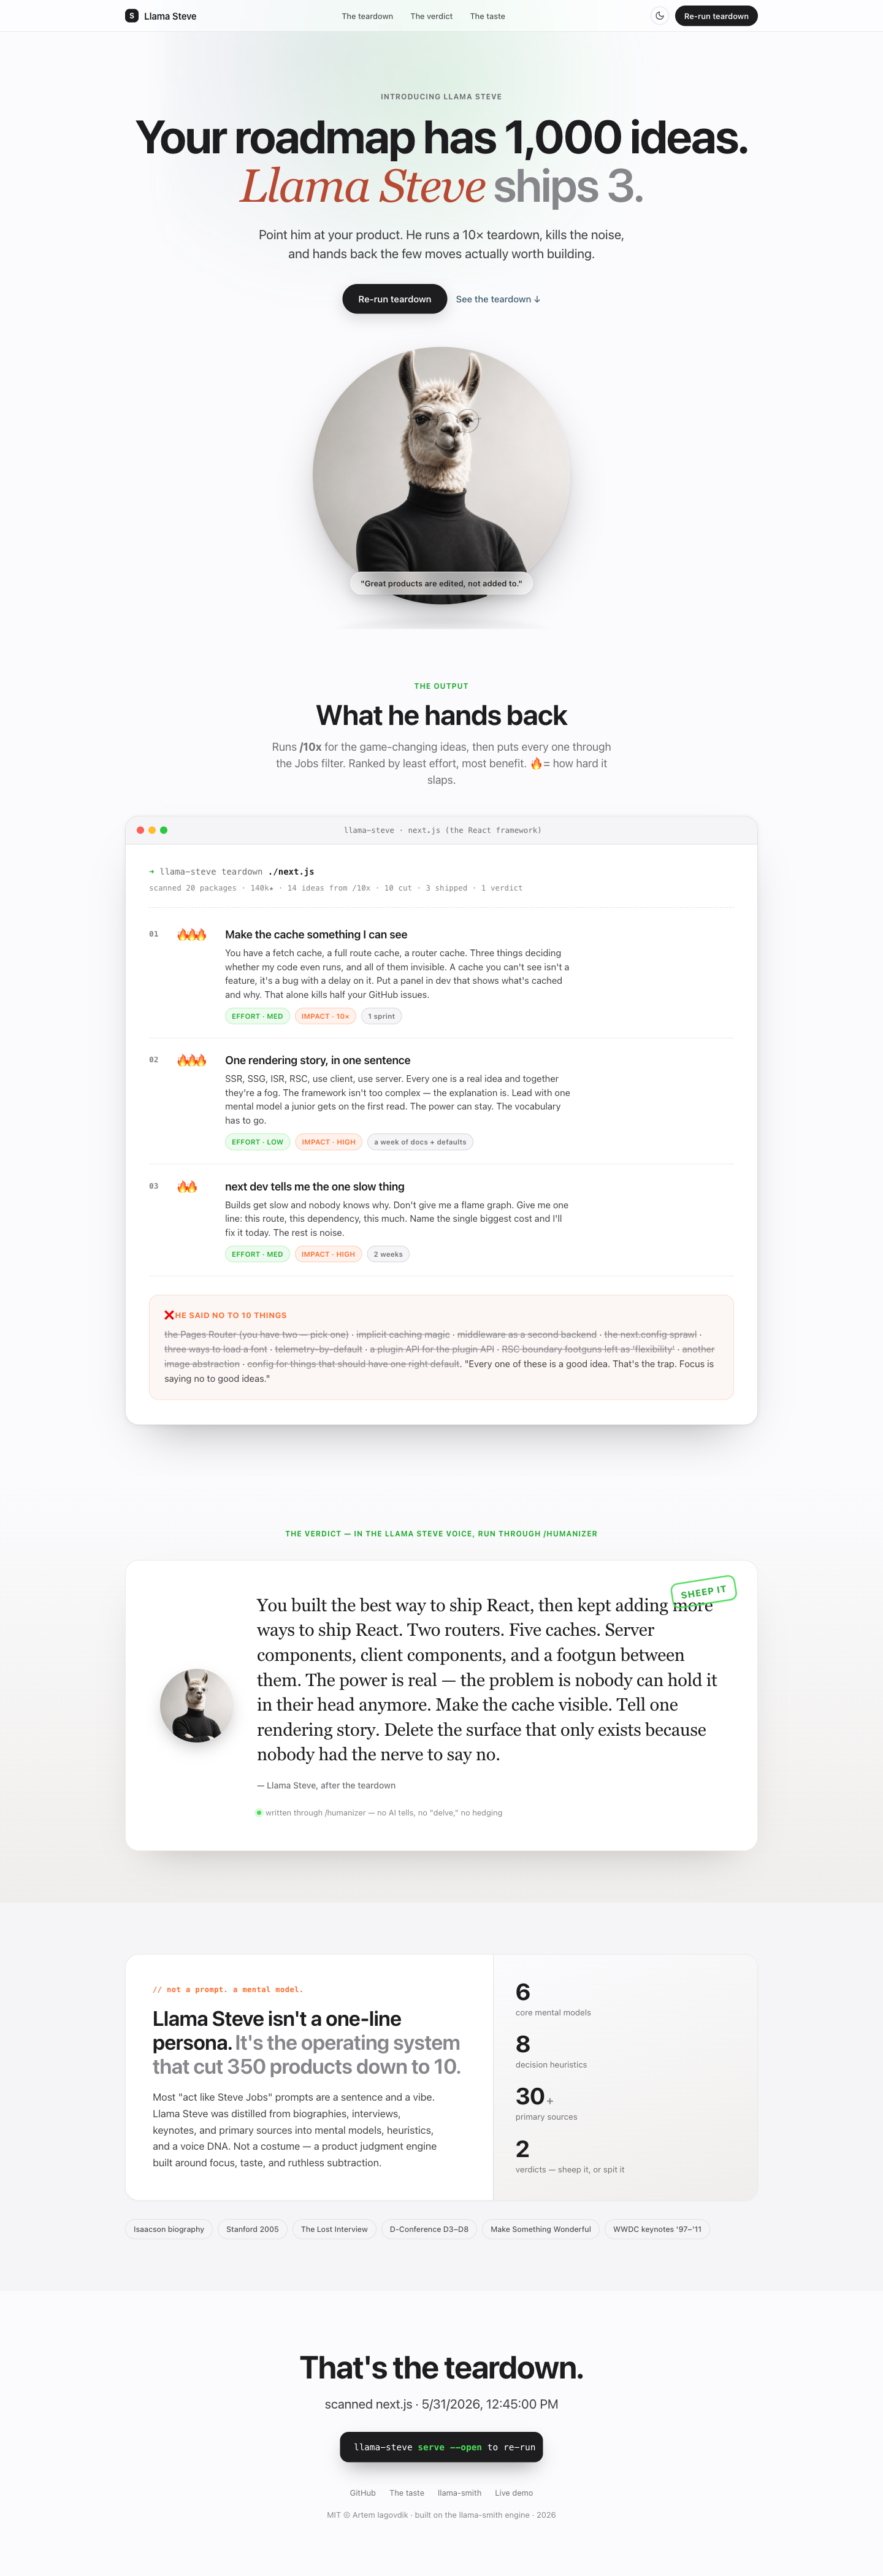
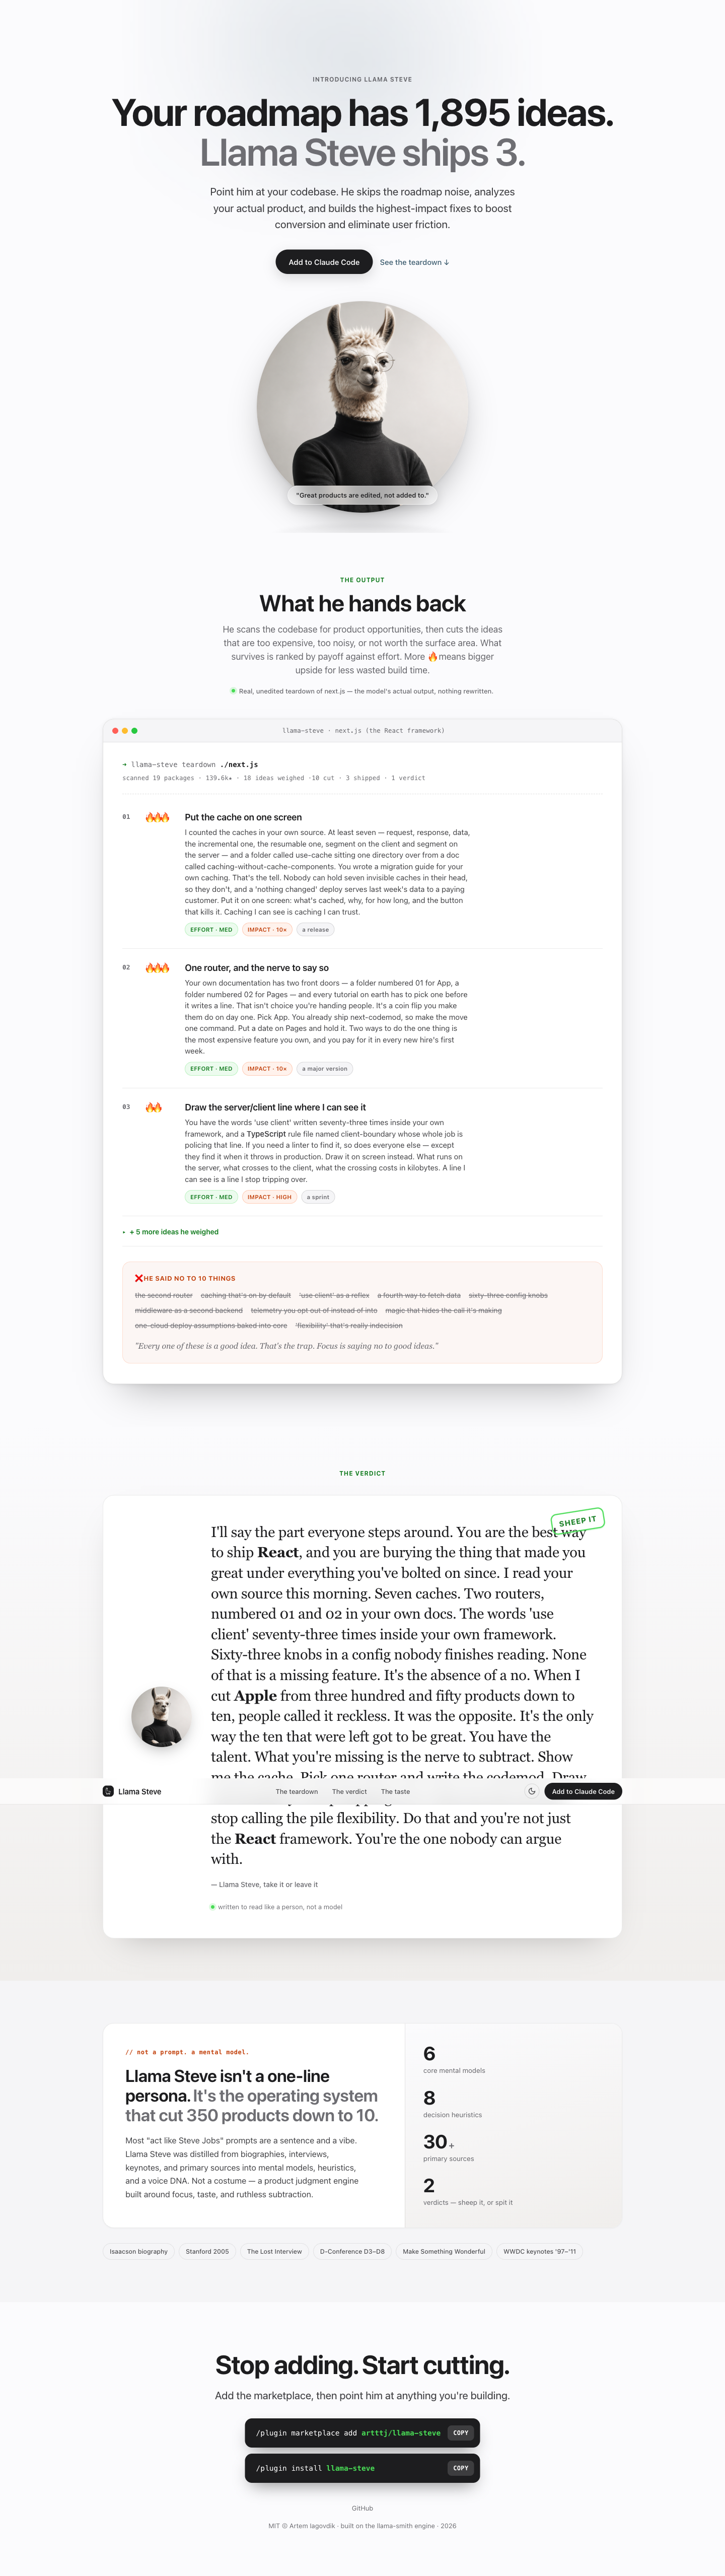
feat: real next.js teardown, clipboard copy, brand mark, OG refresh
Regenerate the public teardown from an actual scan of vercel/next.js so the demo shows real model output instead of curated copy, grounded in observable facts: 19 packages, seven cache layers, two build systems, 'use client' 73 times, 63 config options.

Add a llama brand mark in the nav, a working copy-to-clipboard with a confirmation chip, a refreshed OG card, equal-width install pills, and a calmer hero. Default the teardown to the strongest model with full thinking. Add AGENTS.md.

diff --git a/assets/llama-steve.css b/assets/llama-steve.css
@@ -34,6 +34,7 @@
   .brand{display:flex;align-items:center;gap:9px;font-weight:600;font-size:15px;letter-spacing:-.01em}
   .brand .dot{width:22px;height:22px;border-radius:7px;background:var(--ink);
     display:grid;place-items:center;color:#fff;font-size:12px;font-weight:700}
+  .brand .dot svg{width:15px;height:15px;display:block;fill:currentColor}
   .nav-links{display:flex;gap:28px;font-size:13px;color:var(--ink-2);font-weight:450}
   .nav-links a{transition:color .15s} .nav-links a:hover{color:var(--ink)}
   .nav-cta{font-size:13px;font-weight:550;background:var(--ink);color:#fff;
@@ -43,14 +44,14 @@
 
   /* ---------- hero ---------- */
   header{
-    position:relative; padding:148px 0 40px; text-align:center; overflow:hidden;
+    position:relative; padding:116px 0 28px; text-align:center; overflow:hidden;
   }
   header::before{
     content:""; position:absolute; top:-10%; left:50%; transform:translateX(-50%);
     width:900px; height:620px; z-index:0;
-    background:radial-gradient(circle at 50% 40%, rgba(72,220,85,.10), transparent 60%),
-               radial-gradient(circle at 30% 30%, rgba(58,90,109,.10), transparent 55%);
-    filter:blur(20px);
+    background:radial-gradient(circle at 50% 38%, rgba(60,92,112,.10), transparent 60%),
+               radial-gradient(circle at 32% 26%, rgba(60,92,112,.05), transparent 55%);
+    filter:blur(22px);
   }
   .eyebrow{position:relative;z-index:1;font-size:12px;font-weight:680;letter-spacing:.08em;text-transform:uppercase;
     color:var(--ink-3); margin-bottom:16px}
@@ -59,6 +60,7 @@
   h1 .sub{display:block;color:var(--ink-4);font-weight:600}
   .lede{position:relative;z-index:1;max-width:620px;margin:24px auto 0;
     font-size:clamp(17px,2.1vw,21px);color:var(--ink-2);line-height:1.55;font-weight:440}
+  .lede em{font-style:italic;font-weight:560;color:var(--ink)}
   .hero-cta{position:relative;z-index:1;display:flex;gap:14px;justify-content:center;
     align-items:center;margin-top:34px}
   .btn-primary{background:var(--ink);color:#fff;font-size:15px;font-weight:550;
@@ -180,8 +182,8 @@
   .vquote{font-family:var(--serif);font-size:clamp(21px,2.6vw,29px);line-height:1.4;
     letter-spacing:-.01em;color:var(--ink)}
   .vquote .accent{color:var(--green-deep)}
-  .vquote .kw{font-weight:450}
-  .feat-desc .kw{font-weight:500}
+  .vquote .kw{font-weight:600}
+  .feat-desc .kw{font-weight:600}
   .more-feats{margin-top:2px}
   .more-feats>summary{list-style:none;cursor:pointer;font-family:var(--display);font-size:14px;font-weight:600;letter-spacing:-.01em;color:var(--green-deep);padding:18px 0;border-bottom:1px solid var(--line);display:flex;align-items:center;gap:8px}
   .more-feats>summary::-webkit-details-marker{display:none}
@@ -208,6 +210,20 @@
   .install .copy{background:rgba(255,255,255,.14);border-radius:8px;padding:6px 11px;font-size:12px;
     font-weight:600;letter-spacing:.03em;cursor:pointer;transition:background .15s}
   .install .copy:hover{background:rgba(255,255,255,.26)}
+  .install-stack{display:flex;flex-direction:column;align-items:stretch;gap:12px;width:fit-content;max-width:100%;margin:30px auto 0}
+  .install-stack .install{width:auto;margin:0;justify-content:space-between}
+  .install .copy{user-select:none}
+  .install .copy:active{transform:scale(.93)}
+  .install .copy.ok{background:var(--green);color:#06340c}
+  .toast{position:fixed;left:50%;bottom:30px;transform:translate(-50%,14px);z-index:60;
+    display:flex;align-items:center;gap:9px;background:var(--ink);color:var(--bg);
+    font-family:var(--display);font-size:13px;font-weight:600;letter-spacing:.01em;
+    padding:11px 17px;border-radius:999px;box-shadow:0 18px 44px -14px rgba(0,0,0,.55);
+    opacity:0;pointer-events:none;transition:opacity .2s var(--ease,ease),transform .2s var(--ease,ease)}
+  .toast::before{content:"";width:9px;height:9px;border-radius:50%;background:var(--green);
+    box-shadow:0 0 0 4px color-mix(in srgb,var(--green) 26%,transparent)}
+  .toast.show{opacity:1;transform:translate(-50%,0);pointer-events:auto}
+  @media (prefers-reduced-motion:reduce){.toast{transition:opacity .2s}.install .copy:active{transform:none}}
   footer{padding:40px 0 60px;text-align:center;color:var(--ink-4);font-size:13px}
   footer .fl{display:flex;gap:22px;justify-content:center;margin-bottom:16px;color:var(--ink-3)}
 /* verdict stamp variants */

diff --git a/AGENTS.md b/AGENTS.md
@@ -1,0 +1,60 @@
+# AGENTS.md — Llama Steve
+
+Guidance for coding agents (Claude Code, etc.) working in this repo.
+
+## What this is
+
+Llama Steve is a Claude Code plugin that runs a **10x product teardown** of a repo
+in the voice of a Steve-Jobs-modeled persona — it generates game-changing ideas,
+says no to most of them, keeps ~3, and stamps a binary verdict (**SHEEP IT** or
+**SPIT IT**). It renders the result as an Apple-keynote-style report and serves it
+on localhost. A curated landing page is published at `https://sonto.space/steve/`.
+
+## Architecture (read before changing anything)
+
+The CLI is a **deterministic renderer. It makes zero LLM calls.** The actual
+thinking is done by the Claude Code agent following `commands/llama-steve.md`.
+
+- `llama-steve.mjs` — CLI. Verbs: `serve` (render `/tmp/llama-steve-result.json`
+  into `reports/` and serve it) and `landing` (render `assets/demo.json` into
+  `site/` for the public demo). Flags: `--open`, `--no-serve`, `--port`, `--result`.
+- `lib/report.mjs` — `renderReport` / `buildReport`. Emits self-contained HTML and
+  copies `assets/`. Two modes: `report` (local) and `landing` (adds
+  `<base href="/steve/">`). CSS is cache-busted by content hash. `boldNames()`
+  lightly bolds known framework/company names; the brand mark is `assets/llama-mark.svg`
+  inlined with `fill: currentColor`.
+- `lib/scan.mjs` — `repoIdentity()`: name/description from manifest, git remote, commit count.
+- `lib/serve.mjs` — tiny static server, bound to `127.0.0.1`, path-traversal guarded.
+- `skills/` — bundled skills used during a teardown: `llama-steve` (persona +
+  output contract), `ten-x` (idea generation), `humanizer` (verdict rewrite).
+- `assets/demo.json` — data for the **public** landing. **Must be a real teardown.**
+  `assets/example.json` is the fallback sample shown when no result exists.
+
+## Running it
+
+```bash
+node llama-steve.mjs serve --open    # local report from /tmp/llama-steve-result.json
+node llama-steve.mjs landing         # build public site/ from assets/demo.json
+node --test test/*.mjs               # tests (Node 20+, no deps, no build step)
+```
+
+## The teardown (what the agent does)
+
+Follow `commands/llama-steve.md` and the `skills/llama-steve` output contract:
+`{ product, ideasConsidered, features[], more[], killed[], verdict }`. `heat` is
+1–3, `effort` ∈ LOW/MED/HIGH. Keep `features` to ~3 (max 5); the kill list is the point.
+
+**Read the real code before judging it. Do not invent findings.** Ground every
+feature and number in something you actually observed in the target repo. The demo
+is a real scan of `vercel/next.js`, not recited knowledge — keep it that way.
+
+## Deploying
+
+The public demo at `sonto.space/steve/` is a static drop that lives **outside** the
+sonto-space repo. See `.claude/skills/deploy`. Only real results ship to the demo.
+
+## Conventions
+
+- ES modules, Node 20+, no dependencies, no build step.
+- Many small focused files. Match the surrounding style.
+- Don't add LLM calls to the CLI — the agent is the model.

diff --git a/commands/llama-steve.md b/commands/llama-steve.md
@@ -8,9 +8,10 @@ the report on localhost.
 
 Requirements: Node 20+. No other dependencies — the persona, 10x, and humanizer skills are bundled.
 
-**Models.** The teardown runs inside your Claude Code session — Llama Steve thinks with whatever Claude
-model you're running (Claude by default, zero config). To prefer a specific Claude model for the run,
-export `LLAMA_STEVE_MODEL` in your shell (e.g. in `~/.zshrc`) and use it when set.
+**Models.** The teardown runs inside your Claude Code session. A teardown is a judgment task, so spend
+the reasoning: **by default, use the strongest Claude model available with maximum extended thinking.**
+If `LLAMA_STEVE_MODEL` is set, honor it; otherwise default to the strongest model on hand (Claude Opus)
+at full thinking. Don't quietly fall back to a smaller, faster model — strongest-by-default is the rule.
 
 Do this in order:
 

diff --git a/README.md b/README.md
@@ -51,8 +51,9 @@ and a blunt verdict that doesn't read like a robot wrote it.
 He's a llama who did the homework: the Steve Jobs biographies, the interviews, the keynotes, boiled
 down into the mental models and heuristics the man actually decided with. All of it ships inside the
 plugin, so there's nothing else to install and nothing to wire up. The teardown runs in your Claude
-Code session on whatever Claude model you're already using; set `LLAMA_STEVE_MODEL` to pin one. The
-report engine is the same one that powers llama-smith.
+Code session and defaults to the strongest Claude model available with full extended thinking — it's a
+judgment call, so it spends the reasoning; set `LLAMA_STEVE_MODEL` to pin a specific one. The report
+engine is the same one that powers llama-smith.
 
 ## License
 